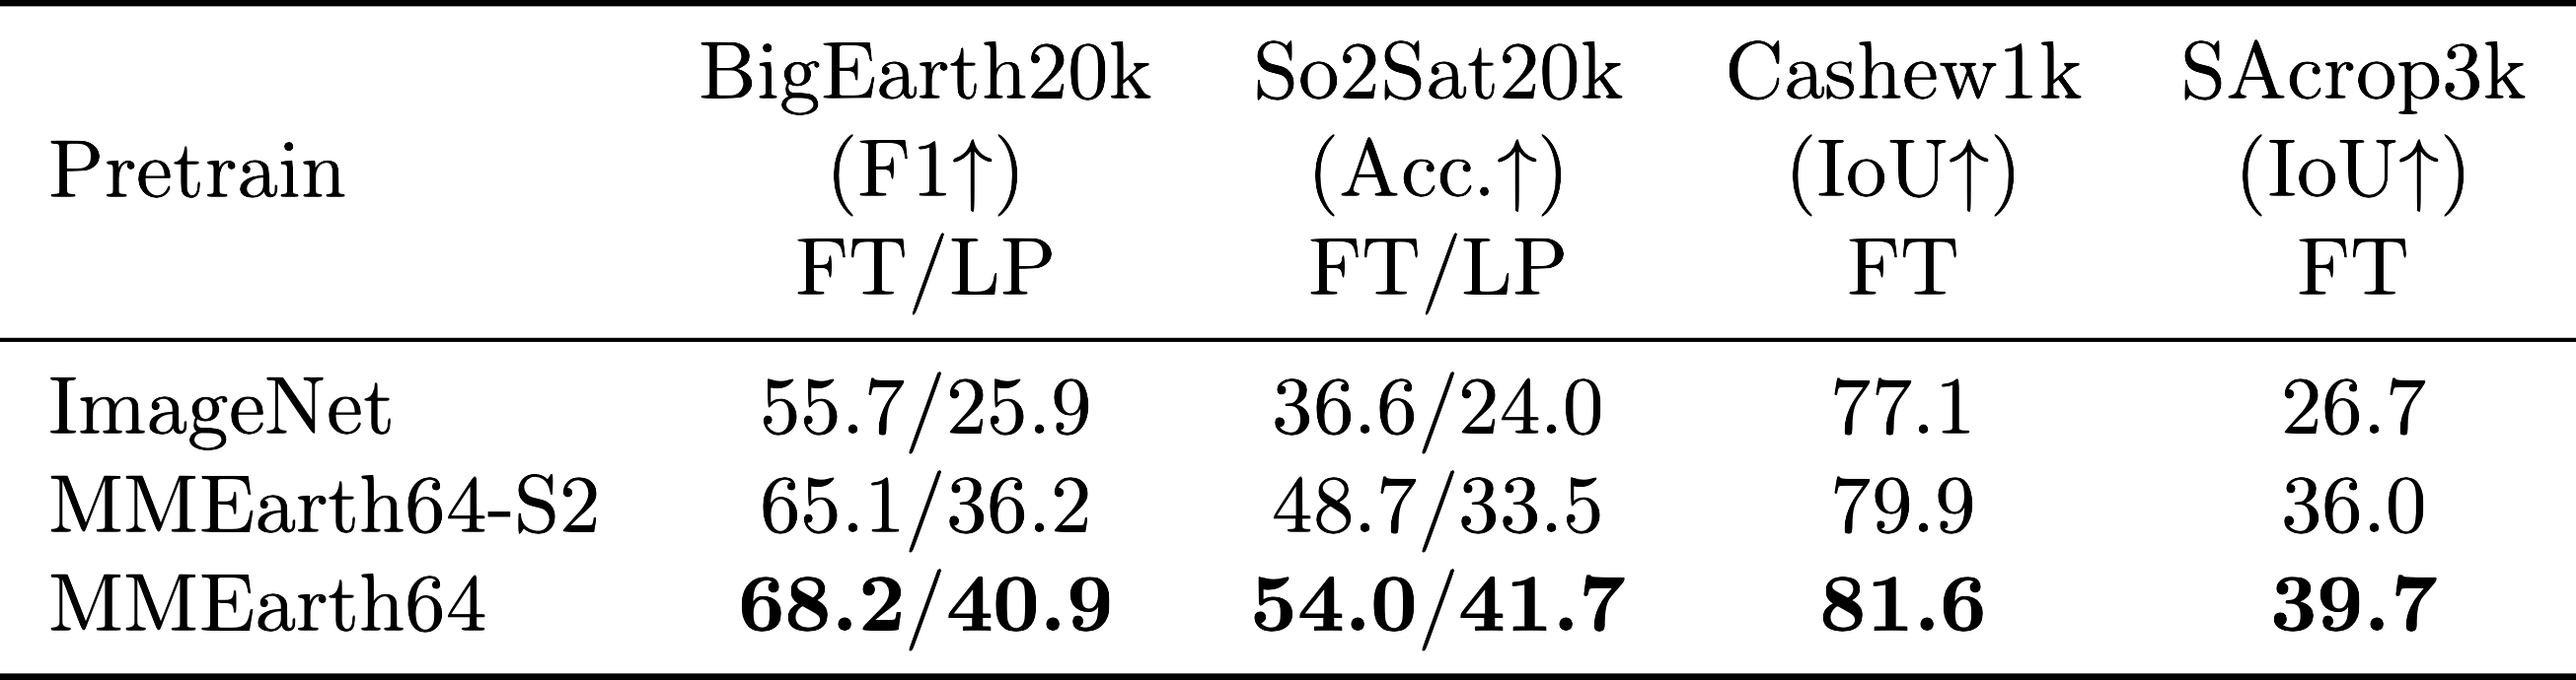
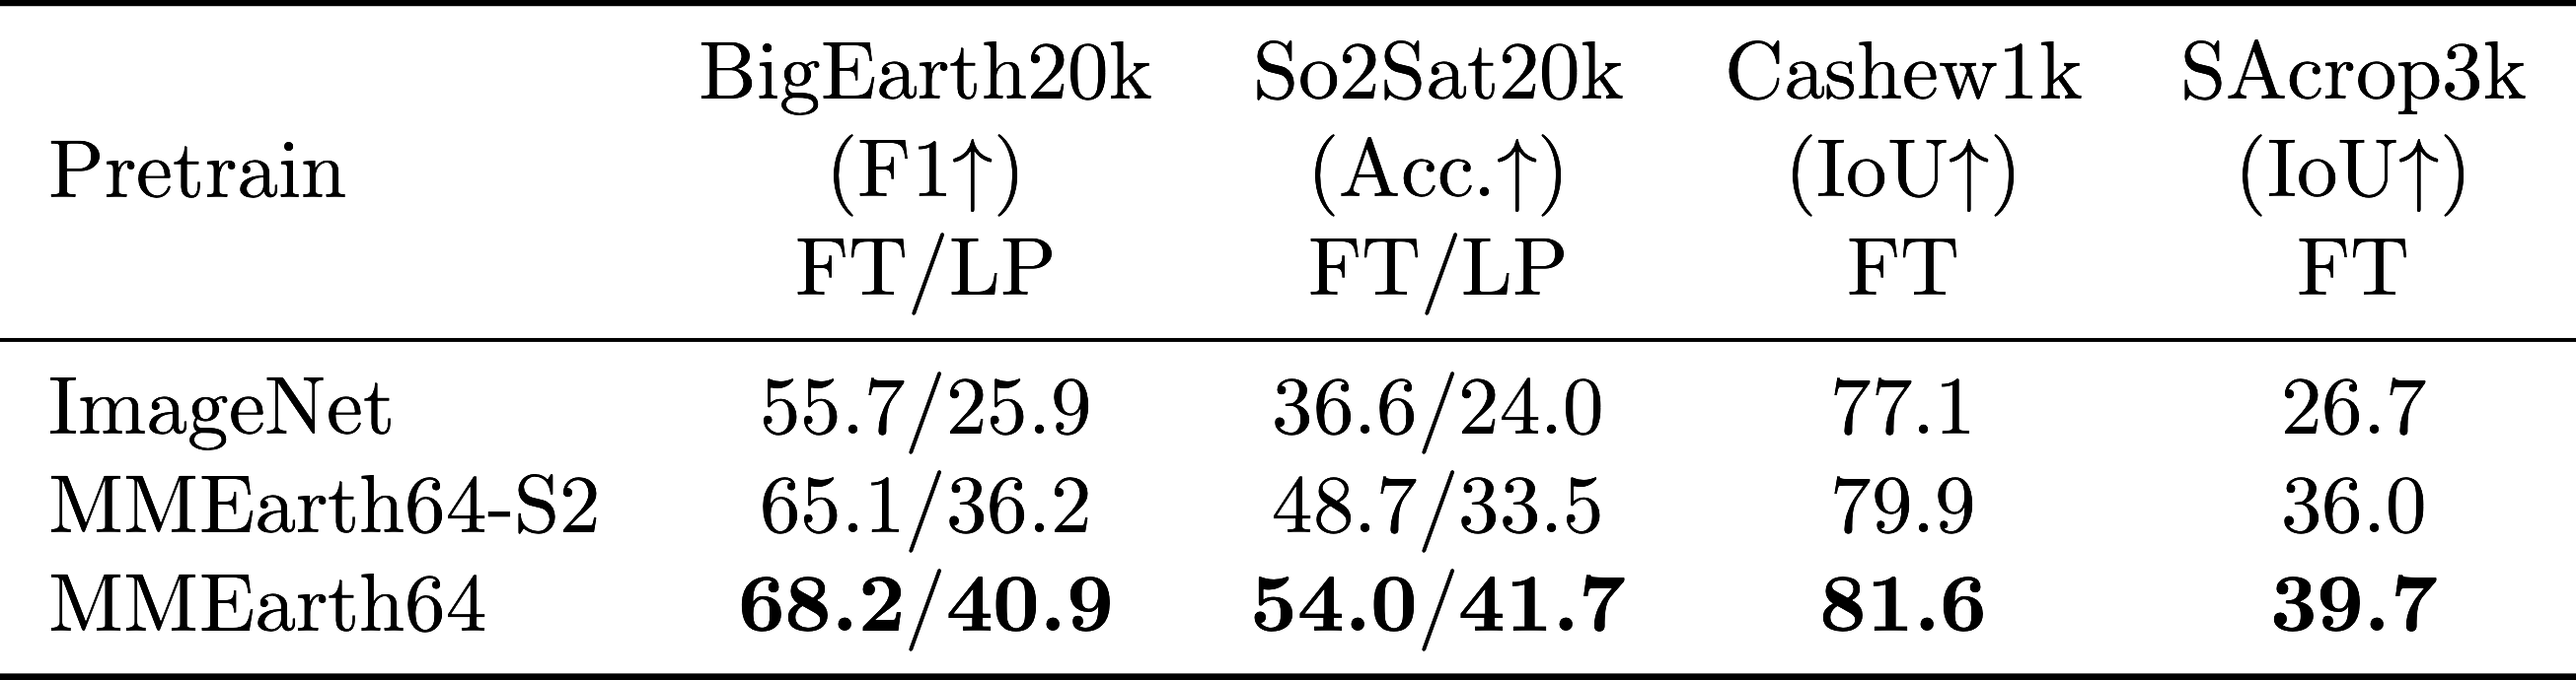
added subsample, and transparent bg

diff --git a/index.html b/index.html
@@ -310,6 +310,22 @@
   <section class="section hero is-light">
     <figure class="model-image">
       <img src="static/images/table_result_mp-mae.png" alt="table results" style="width:50%">
+      <figcaption style="width:70%; margin-left: 15%;">
+        <b>Table: Downstream performance.</b> Fine-tuning (FT) and linear probing (LP) performance for multi-pretext pretraining (MMEarth64) 
+        and masked image pretraining (ImageNet, MMEarth64-S2). Multi-pretext pretraining improves both FT and LP results.
+      </figcaption>
+
+    </figure>
+    <figure class="model-image" style="padding-top: 50px;">
+      <!-- stack 3 images size by side -->
+      <img src = "static/images/label_efficiency_t.png" alt="label_efficiency" style="width:80%">
+      <figcaption style="width:80%; margin-left: 10%;">
+        <b>Figure: Label efficiency for few-shot downstream performance.</b> Linear probing
+        performance for varying downstream dataset sizes. MP-MAE (‘Atto’) pretrained on
+        ImageNet, MMEarth64-S2 (multi-spectral only), MMEarth64 (all multi-modal pretext
+        tasks).
+      </figcaption>
+
     </figure>
   </section>
   
